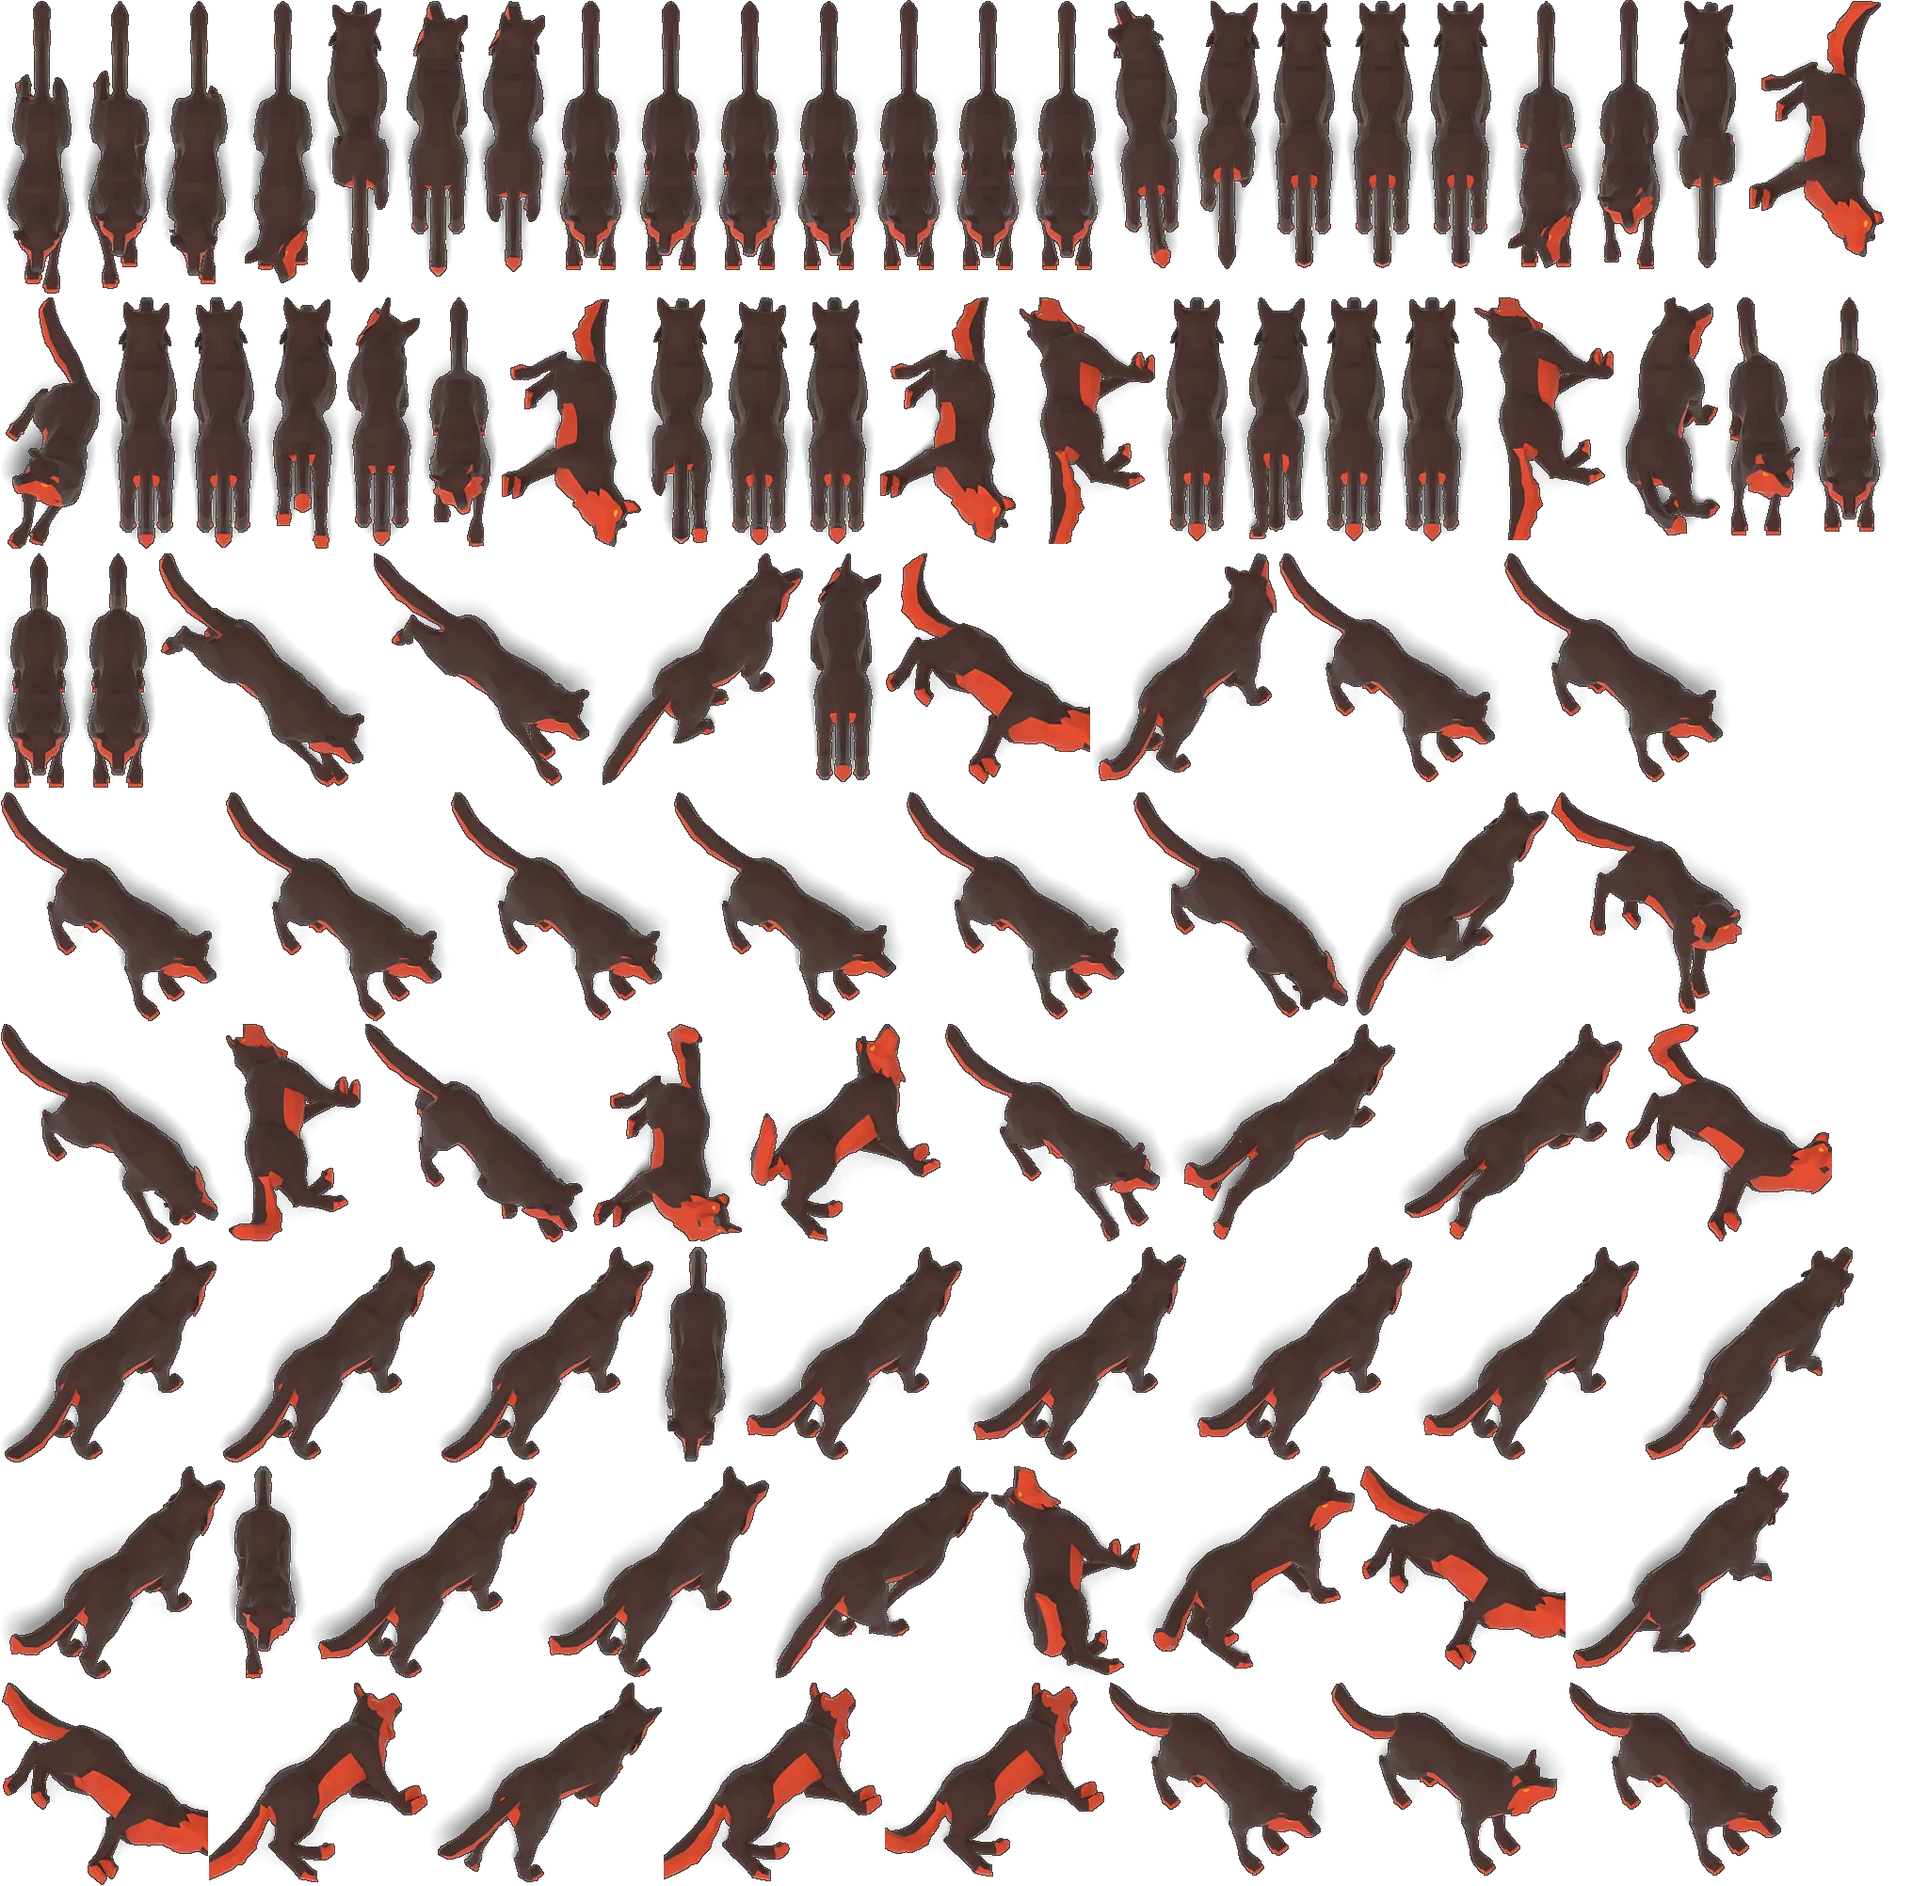
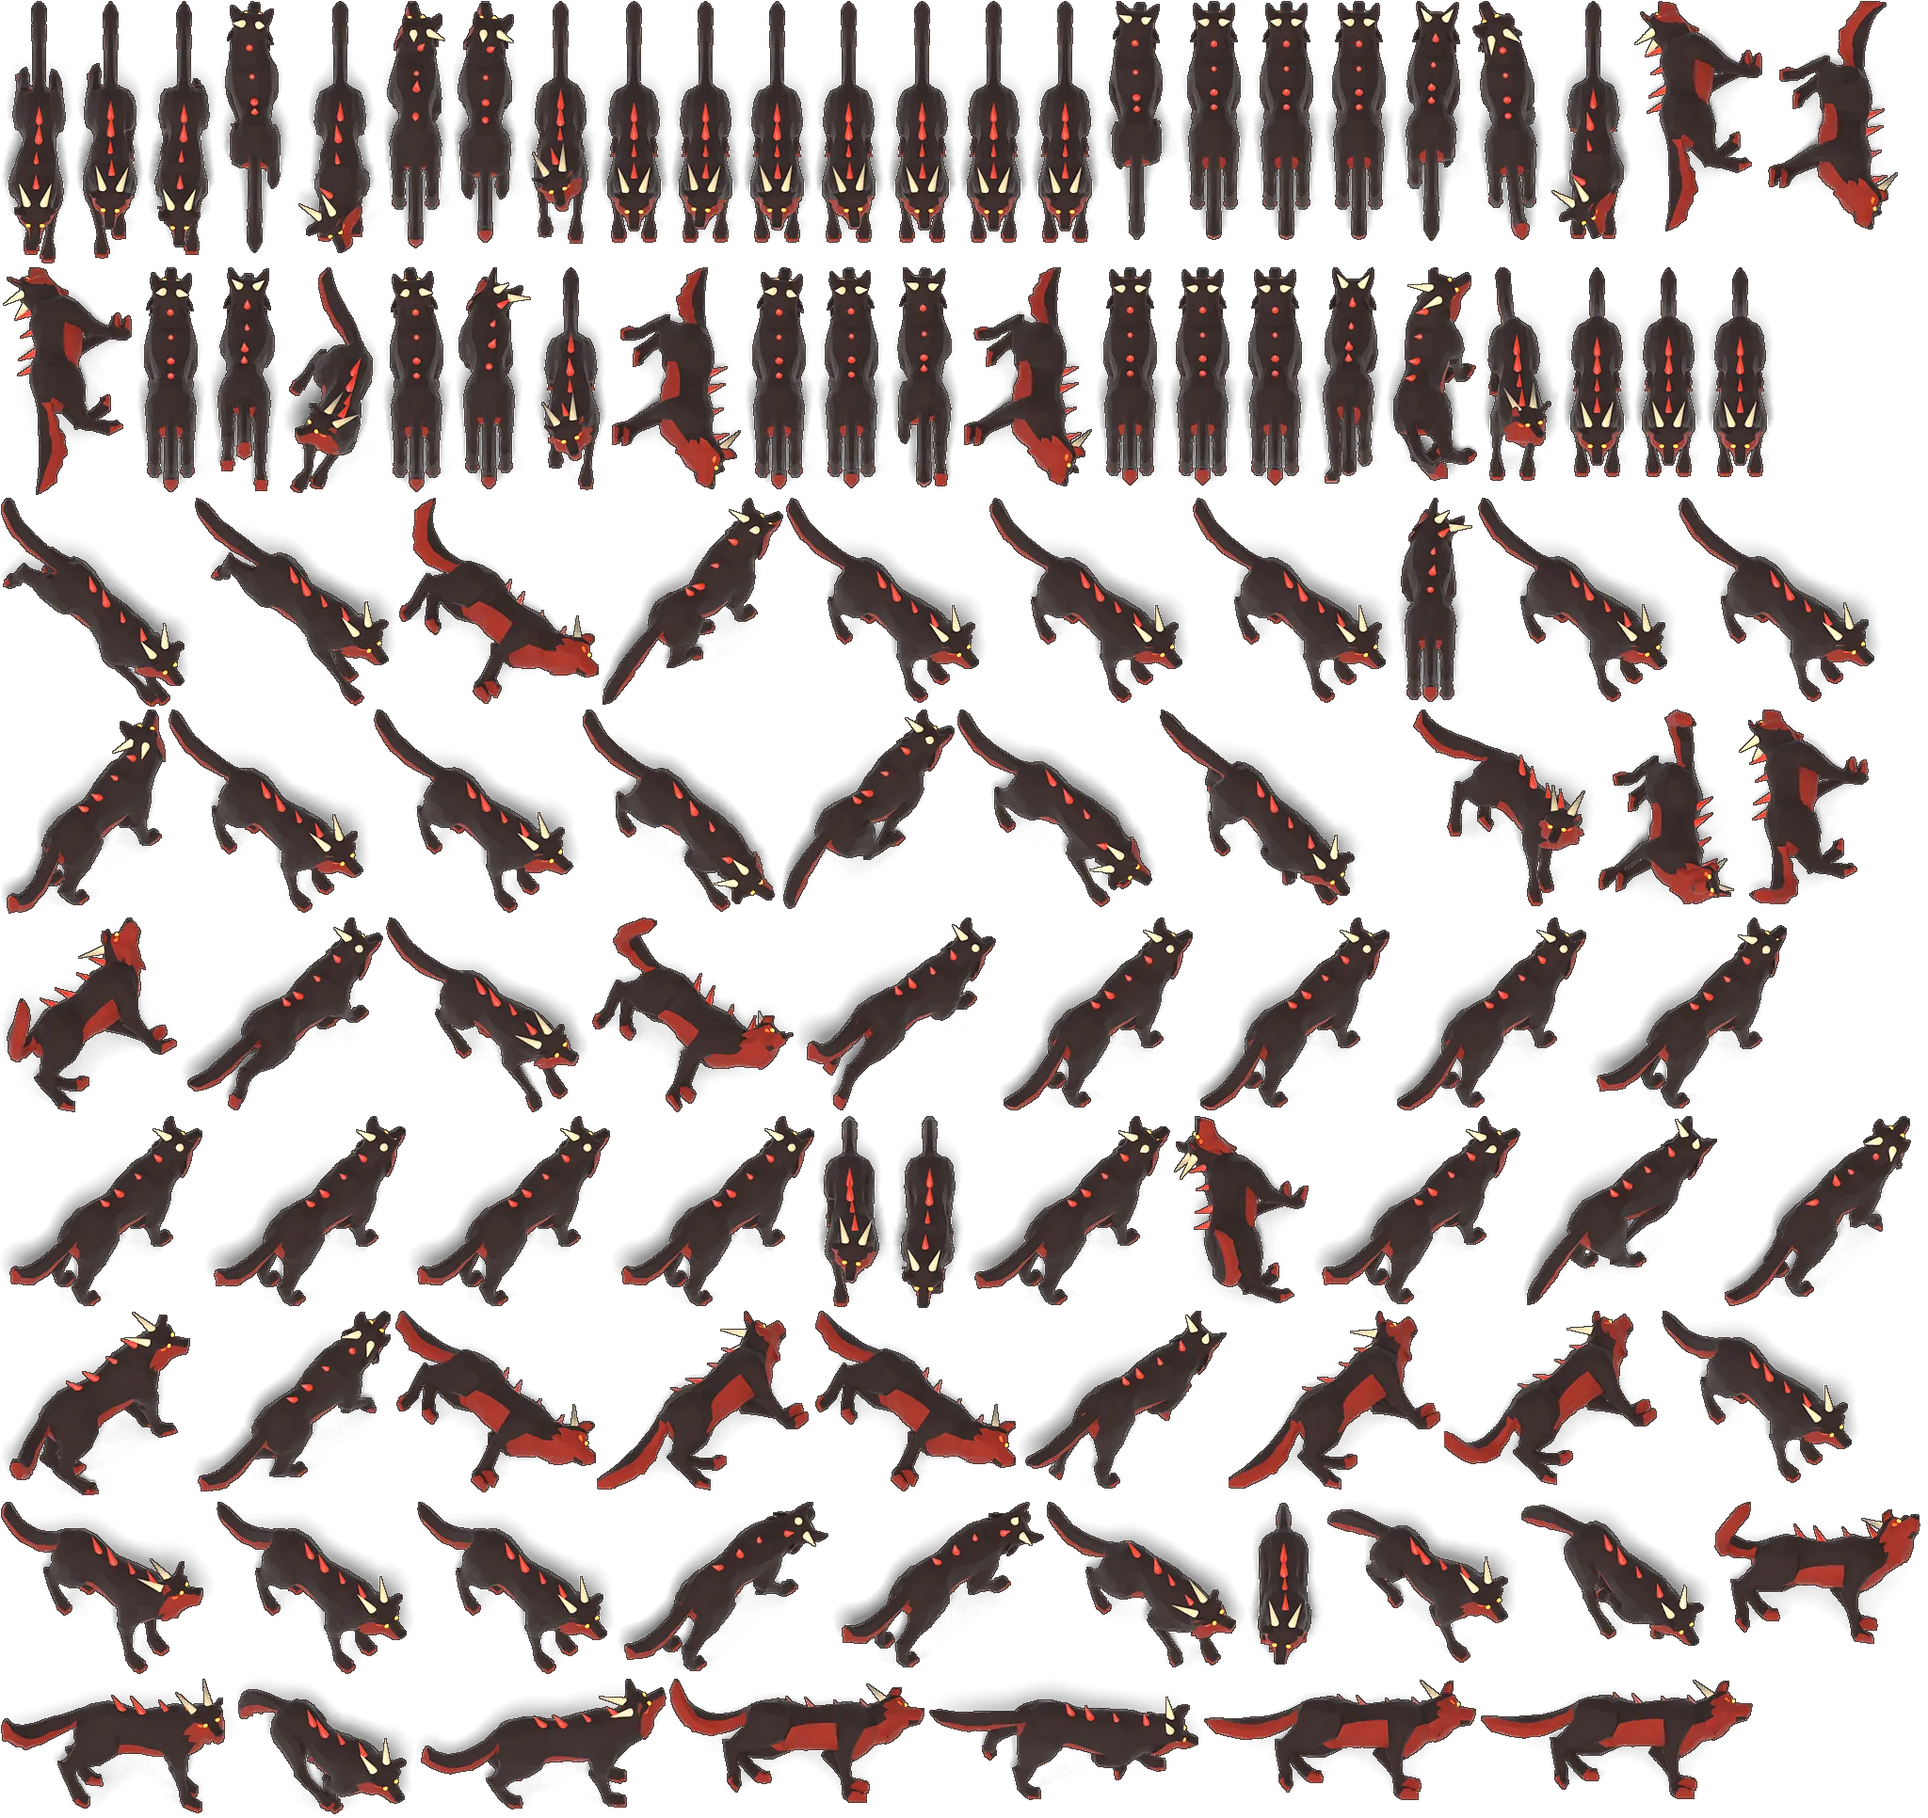
v19 wip: atlases hellHound cerberus efreet

diff --git a/game3d.js b/game3d.js
@@ -124,9 +124,9 @@ async function buildPart(f,def,tint){const g=await loadG(f);const o=SkeletonUtil
     holder.scale.setScalar(p.len*H/(L*ws));bone.add(holder);}
   return {o,anims:g.animations};}
 // ---- pre-rendered sprites (?sprites=1): Blender-rendered 5-direction atlases (mirrored to 8) replace live 3D models ----
-const SPR_ON=/[?&]sprites=1/.test(location.search);const SPR={};const SPR_UNITS=['pikeman','halberdier','archer','marksman','griffin','royalGriffin','swordsman','crusader','monk','zealot','cavalier','champion','angel','archangel','skeleton','walkingDead','wight','vampire','vampireLord','lich','boneDragon','goblin','hobgoblin','wolfRider','orc','ogre','behemoth','centaur','dwarf','battleDwarf','woodElf','unicorn','greenDragon','goldDragon','imp','gog','hellHound','demon','pitFiend','redDragon','blackDragon'];const sprLoader=new THREE.TextureLoader();const SPR_V=18;
+const SPR_ON=/[?&]sprites=1/.test(location.search);const SPR={};const SPR_UNITS=['pikeman','halberdier','archer','marksman','griffin','royalGriffin','swordsman','crusader','monk','zealot','cavalier','champion','angel','archangel','skeleton','walkingDead','wight','vampire','vampireLord','lich','boneDragon','goblin','hobgoblin','wolfRider','orc','ogre','behemoth','centaur','dwarf','battleDwarf','woodElf','unicorn','greenDragon','goldDragon','imp','gog','hellHound','cerberus','demon','pitFiend','efreet','redDragon','blackDragon'];const sprLoader=new THREE.TextureLoader();const SPR_V=18;
 // upgraded creatures reuse their base unit's atlas with a colour tint and a slightly larger scale (same approach as the 3D fallback)
-const SPR_K={griffin:0.5,royalGriffin:0.52,hellHound:0.6,cerberus:0.62,wolfRider:0.72,wolfRaider:0.74,roc:0.6,thunderbird:0.6};const SPR_ALIAS={skeletonWarrior:['skeleton',0xc8d4ff],zombie:['walkingDead',0xc8e8a0],familiar:['imp',0xff9a7a],centaurCaptain:['centaur',0xd8e8c0],magog:['gog',0xffb070],powerLich:['lich',0xd0b0ff],ancientBehemoth:['behemoth',0xffb890],wraith:['wight',0xc0ccff],ghostDragon:['boneDragon',0xb8d8ff],wolfRaider:['wolfRider',0xffe0c0],orcChieftain:['orc',0xffe0b0],ogreMage:['ogre',0xc8d0ff],cyclops:['ogre',0xd8e0c8],cyclopsKing:['ogre',0xffe0a0],roc:['griffin',0xa08060],thunderbird:['griffin',0x90a0ff],grandElf:['woodElf',0xe8ffd8],warUnicorn:['unicorn',0xfff0d0],cerberus:['hellHound',0xffb0a0],hornedDemon:['demon',0xffc8a0],pitLord:['pitFiend',0xffd0a0],devil:['pitFiend',0x9a6070]};
+const SPR_K={griffin:0.5,royalGriffin:0.52,hellHound:0.6,cerberus:0.62,wolfRider:0.72,wolfRaider:0.74,roc:0.6,thunderbird:0.6};const SPR_ALIAS={skeletonWarrior:['skeleton',0xc8d4ff],zombie:['walkingDead',0xc8e8a0],familiar:['imp',0xff9a7a],centaurCaptain:['centaur',0xd8e8c0],magog:['gog',0xffb070],powerLich:['lich',0xd0b0ff],ancientBehemoth:['behemoth',0xffb890],wraith:['wight',0xc0ccff],ghostDragon:['boneDragon',0xb8d8ff],wolfRaider:['wolfRider',0xffe0c0],orcChieftain:['orc',0xffe0b0],ogreMage:['ogre',0xc8d0ff],cyclops:['ogre',0xd8e0c8],cyclopsKing:['ogre',0xffe0a0],roc:['griffin',0xa08060],thunderbird:['griffin',0x90a0ff],grandElf:['woodElf',0xe8ffd8],warUnicorn:['unicorn',0xfff0d0],hornedDemon:['demon',0xffc8a0],pitLord:['pitFiend',0xffd0a0],devil:['pitFiend',0x9a6070],efreetSultan:['efreet',0xffe070]};
 function loadSpr(t){if(!SPR_ON)return null;if(SPR_ALIAS[t])return loadSpr(SPR_ALIAS[t][0]);if(!SPR_UNITS.includes(t))return null;return SPR[t]||(SPR[t]=fetch(`assets/spr/${t}.json?v=${SPR_V}`).then(r=>r.json()).then(m=>Promise.all(m.pages.map((_,i)=>new Promise((res,rej)=>sprLoader.load(`assets/spr/${t}_p${i}.webp?v=${SPR_V}`,res,undefined,rej)))).then(tx=>{for(const x of tx){x.colorSpace=THREE.SRGBColorSpace;x.anisotropy=4;}m.tex=tx;return m;})).catch(e=>{console.warn('spr',t,e);return null;}));}
 const shadowTex=(()=>{const c=document.createElement('canvas');c.width=c.height=64;const x=c.getContext('2d');const g=x.createRadialGradient(32,32,2,32,32,32);g.addColorStop(0,'rgba(0,0,0,.62)');g.addColorStop(0.5,'rgba(0,0,0,.36)');g.addColorStop(1,'rgba(0,0,0,0)');x.fillStyle=g;x.fillRect(0,0,64,64);return new THREE.CanvasTexture(c);})();
 const shadowMat=new THREE.MeshBasicMaterial({map:shadowTex,transparent:true,depthWrite:false});const shadowGeo=new THREE.PlaneGeometry(1,1);shadowGeo.rotateX(-Math.PI/2);
@@ -600,7 +600,7 @@ function startFight(){if(G.phase!=='deploy')return;S.go();hideCoach();G.phase='c
   if(G.run.arts.includes('damned'))for(const u of G.battle.units)if(u.side==='e')u.buf.slow=6;
   const boss=G.battle.units.find(u=>u.boss);if(boss&&!G.introFor){G.introFor=1;bossIntro(boss,()=>{G.introFor=0;beginBattle();});return;}beginBattle();}
 function bossIntro(u,done){G.phase='intro';setBattleUI(true,true);$('deployBar').classList.add('hidden');const B=H.BOSSES.find(b=>b.id===u.boss);
-  const [x,z]=unitWorld(u);const look=new THREE.Vector3(x,MD[u.type].h*0.9,z);const dir=camBase.clone().sub(camLook).normalize();const near=look.clone().addScaledVector(dir,4.2);
+  const [x,z]=unitWorld(u);const look=new THREE.Vector3(x,MD[u.type].h*0.9,z);const dir=camBase.clone().sub(camLook).normalize();const v0=views.get(u);const near=look.clone().addScaledVector(dir,v0&&v0.spr?Math.max(8.5,MD[u.type].h*5):4.2);// sprites: limit zoom so atlas texels are not magnified
   G.camT={t:0,dur:2.8,near,look};$('bcName').textContent='👑 '+B.n;$('bcSub').textContent=`${U[B.type].n} · 第 ${G.run.stage} 关首领`;$('bcDesc').textContent=B.desc;
   setTimeout(()=>{$('bossCard').classList.remove('hidden');S.sting();const v=views.get(u);if(v)playOne(v,v.one.cheer?'cheer':'atk');shake=0.15;},500);
   setTimeout(()=>{$('bossCard').classList.add('hidden');},2500);setTimeout(()=>{G.camT=null;camera.position.copy(camBase);camera.lookAt(camLook);done();},2850);
